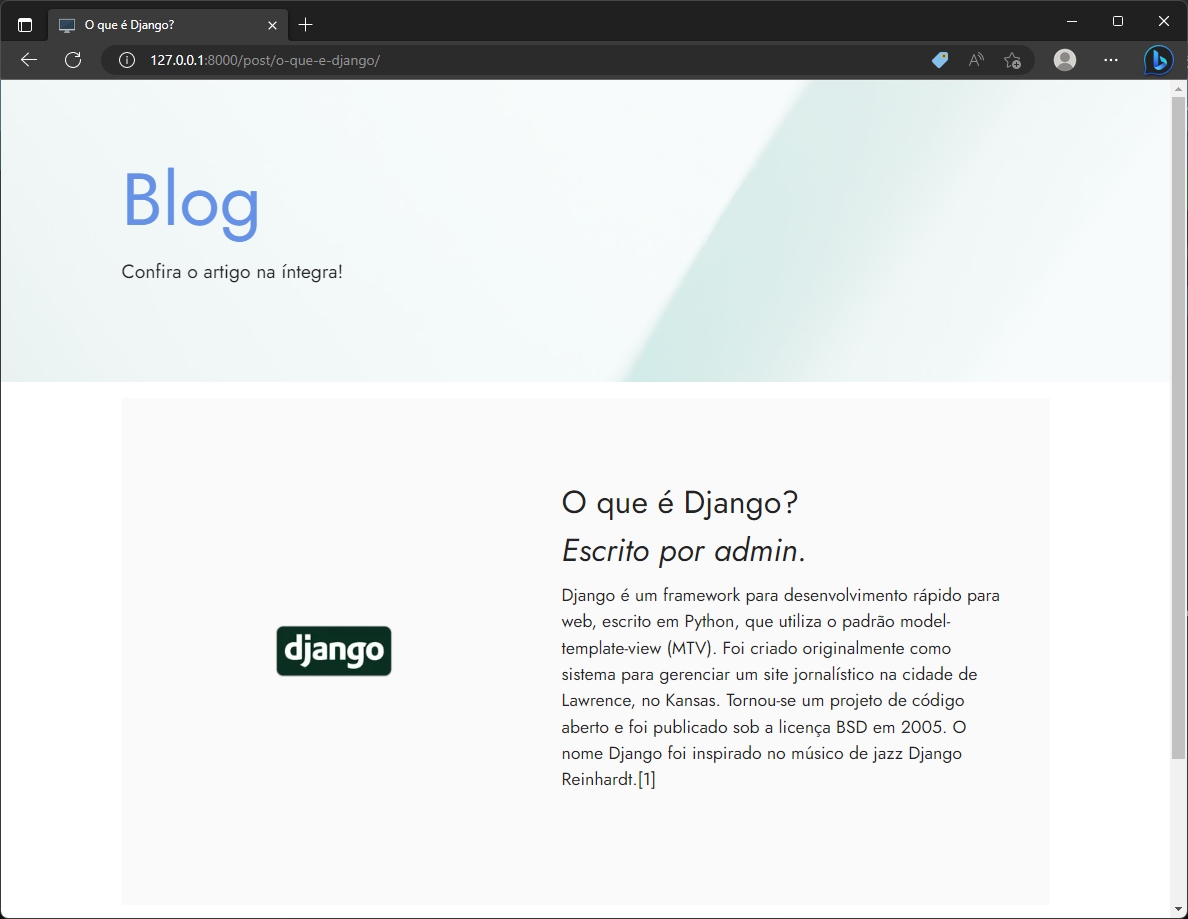
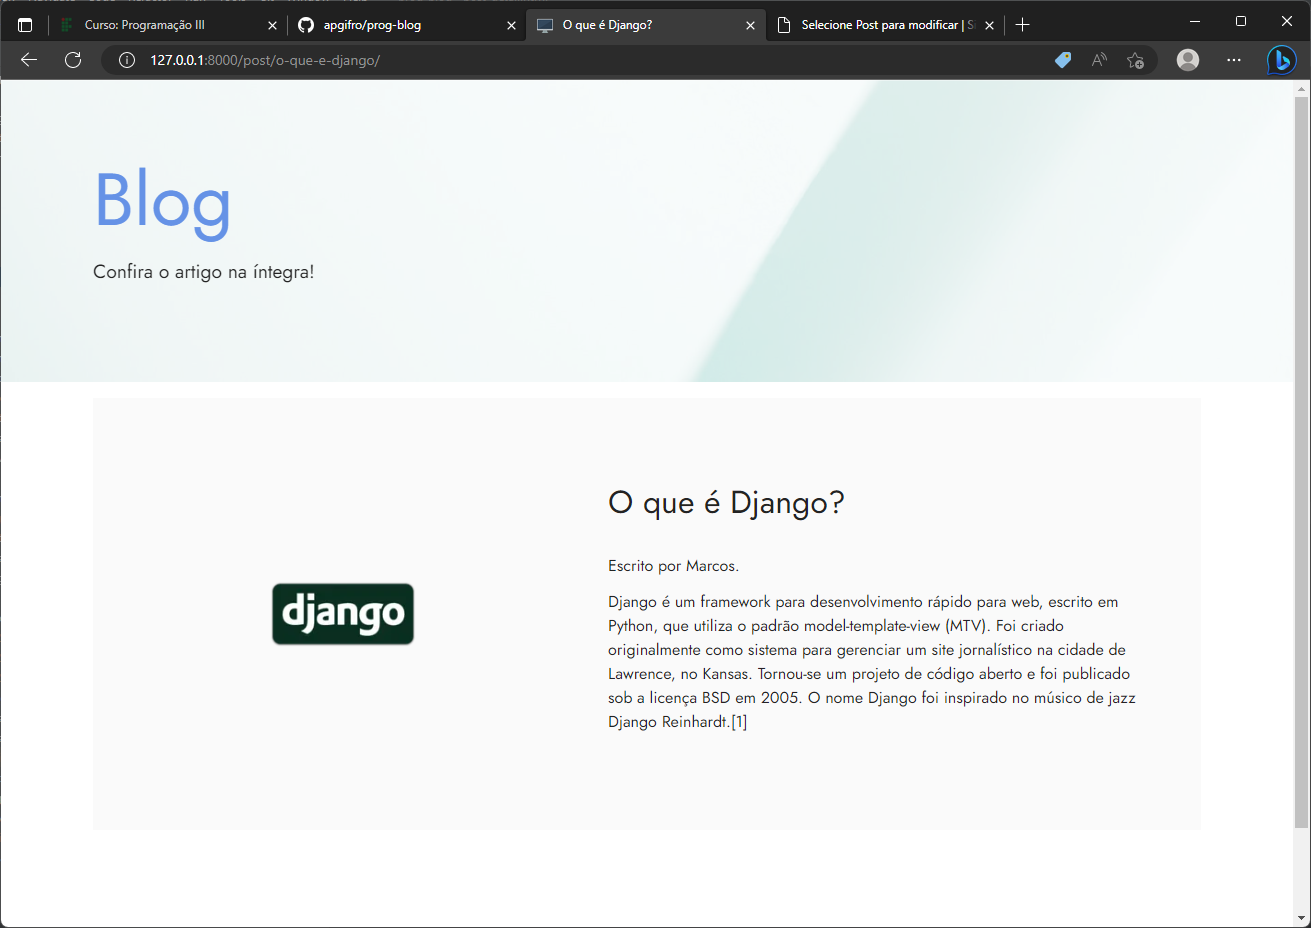
parte 1 da aula README.md

diff --git a/app/templates/blog/post/post_detail.html b/app/templates/blog/post/post_detail.html
@@ -16,9 +16,10 @@
                 <div class="col-12 col-lg">
                     <div class="text-wrapper">
                         <h6 class="card-title mbr-fonts-style display-5">
-                            {{ item.titulo }} </br> <i> Escrito por {{ item.autor }}. </i>
+                            {{ item.titulo }}
                         </h6>
                         <p class="mbr-text mbr-fonts-style mb-4 display-4">
+                            <p> Escrito por {{ item.autor }}. </p>
                             {{ item.corpo }}
                         </p>
                     </div>

diff --git a/app/templates/blog/post/posts_view.html b/app/templates/blog/post/posts_view.html
@@ -39,4 +39,3 @@
 
 
 
-
